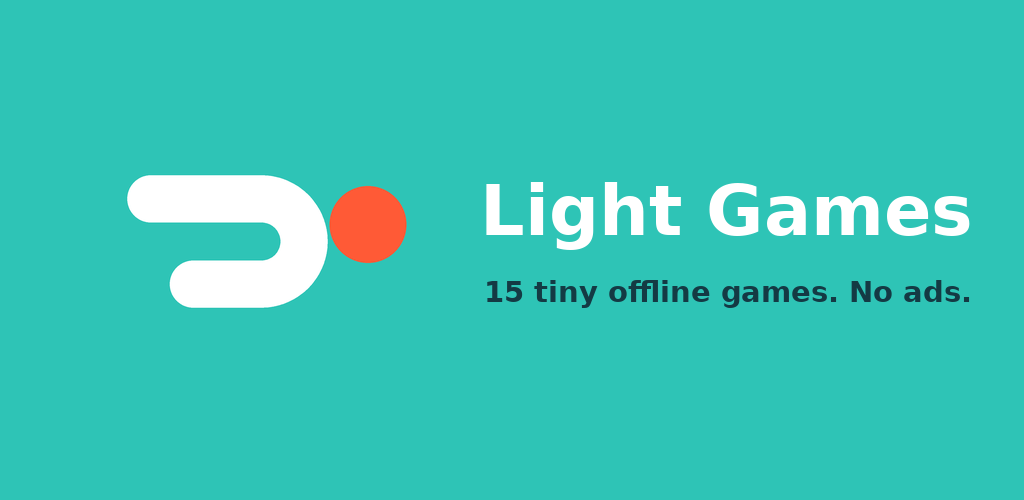
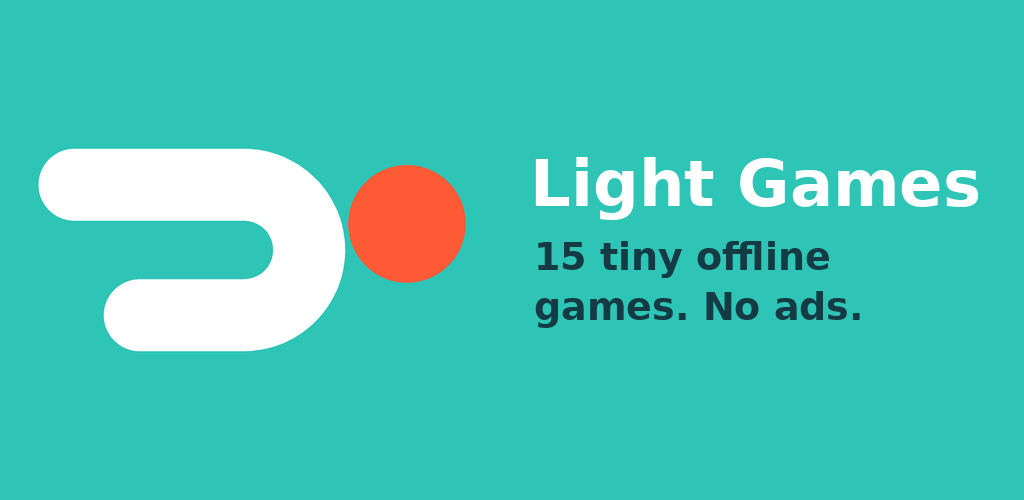
Store listing: ready-to-paste texts (EN/FR), release notes 1.0.3, larger feature graphic

Changed region(s): [[0.0312, 0.27, 0.9688, 0.72]]

diff --git a/tools/icons/gen_store_art.py b/tools/icons/gen_store_art.py
@@ -45,22 +45,48 @@ def icon(path):
     img.resize((512, 512), Image.LANCZOS).convert("RGB").save(path)
 
 
+def wrap(draw, text, font, room):
+    """Greedy word wrap of [text] to [room] px."""
+    lines, cur = [], ""
+    for word in text.split():
+        trial = (cur + " " + word).strip()
+        if draw.textlength(trial, font=font) <= room or not cur:
+            cur = trial
+        else:
+            lines.append(cur)
+            cur = word
+    lines.append(cur)
+    return lines
+
+
 def feature(path, title, tagline):
     w, h = 1024, 500
     img = Image.new("RGBA", (w * SS, h * SS), BG + (255,))
-    m = mark(460, view=108.0)
-    img.alpha_composite(m, (40 * SS, 20 * SS))
+    # The mark only fills about 61% of the launcher viewport: draw it larger so the zigzag and the
+    # dot (viewport x 20..86, y 36..68) span ~480 px, centred in the left half.
+    view_w = 66.0
+    k = 430.0 / view_w
+    side = round(108 * k)
+    m = mark(side)
+    dx = round(250 - 53.0 * k)
+    dy = round(250 - 52.0 * k)
+    img.paste(m, (dx * SS, dy * SS), m)
     img = img.resize((w, h), Image.LANCZOS).convert("RGB")
     d = ImageDraw.Draw(img)
-    big = ImageFont.truetype(FONT, 74)
-    small = ImageFont.truetype(FONT, 30)
-    left, room = 480, w - 480 - 40
+    left, right = 530, w - 36
+    room = right - left
+    big = ImageFont.truetype(FONT, 100)
     while d.textlength(title, font=big) > room:
         big = ImageFont.truetype(FONT, big.size - 2)
-    while d.textlength(tagline, font=small) > room:
-        small = ImageFont.truetype(FONT, small.size - 1)
-    d.text((left, 170), title, font=big, fill=WHITE)
-    d.text((left + 4, 275), tagline, font=small, fill=DARK)
+    small = ImageFont.truetype(FONT, 38)
+    lines = wrap(d, tagline, small, room)
+    block = big.size + 24 + len(lines) * 50
+    y = (h - block) // 2 - 10
+    d.text((left, y), title, font=big, fill=WHITE)
+    y += big.size + 24
+    for line in lines:
+        d.text((left + 4, y), line, font=small, fill=DARK)
+        y += 50
     img.save(path)
 
 

diff --git a/store/play/listing/README.md b/store/play/listing/README.md
@@ -1,0 +1,62 @@
+# Fiche Google Play : tout ce qu'il faut saisir
+
+Textes prêts à coller (un fichier par champ, limites vérifiées) :
+`en-US/` et `fr-FR/` : `title.txt` (30), `short_description.txt` (80), `full_description.txt` (4000), `release_notes.txt` (500).
+Visuels : `../icon_512.png`, `../feature_1024x500_en.png`, `../feature_1024x500_fr.png`, `../product_icon_unlock_all_512.png` (icône du produit). Les captures sont à faire sur le téléphone (voir plus bas).
+
+## Présence sur le Store > Fiche principale
+| Champ | Valeur |
+|---|---|
+| Langue par défaut | Français (France), fr-FR. Ajouter l'anglais (en-US) dans « Traductions » |
+| Nom de l'appli | `Jeux Légers` (fr-FR) / `Light Games` (en-US) |
+| Description courte, complète | `fr-FR/` et `en-US/` |
+| Icône | `../icon_512.png` (PNG 512×512) |
+| Image de présentation | `../feature_1024x500_fr.png` / `_en.png` (1024×500) |
+| Captures d'écran téléphone | 2 minimum, 8 maximum (16:9 à 9:16, 320 à 3840 px) |
+| Vidéo, tablette | facultatif, laisser vide |
+
+## Paramètres du Store (Store settings)
+| Champ | Valeur |
+|---|---|
+| Type | Jeu |
+| Catégorie | Occasionnel (Casual). Alternative : Puzzle si Occasionnel est refusé |
+| Tags (jusqu'à 5, à choisir dans la liste proposée) | Arcade, Puzzle, Casual, Board, Family. Prendre les plus proches parmi ceux proposés |
+| E-mail de contact | regis.portalez@comua.fr |
+| Site Web | https://comuafr.github.io/lightweight-games/ (ou le site de COMUA) |
+| Téléphone | obligatoire pour un compte « trader » dans l'UE (coordonnées publiées) |
+| Politique de confidentialité | https://comuafr.github.io/lightweight-games/ |
+
+## Contenu de l'application (réponses)
+| Rubrique | Réponse |
+|---|---|
+| Accès à l'application | Oui, une partie est restreinte (achat intégré). Aucun identifiant. Texte pour le relecteur, en anglais, ci-dessous |
+| Publicités | Non |
+| Classification du contenu | Catégorie Jeu. Violence, sang, sexe, langage, drogues, jeux d'argent : non. Interaction entre utilisateurs, localisation, contenu généré : non. Achats intégrés : oui. Résultat attendu : PEGI 3 / Tous publics |
+| Public cible | Tous âges, enfants inclus : lire la politique « Designed for Families » (pas de pub, aucune collecte, barrière parentale devant l'achat, achat clairement annoncé) |
+| Sécurité des données | Aucune donnée collectée, aucune partagée. Pas de chiffrement en transit à déclarer (pas de réseau) |
+| Identifiant publicitaire | Non (vérifié : pas de permission AD_ID, aucun SDK publicitaire) |
+| Statut « trader » | Oui |
+| Conditions d'utilisation (URL) | Facultatif, laisser vide |
+| Application d'actualité, santé, finance, gouvernement | Non à tout |
+
+### Texte « Any other information required for access » (en anglais)
+```
+No account or sign-in is required. Three games are free (Gobbler, Fusion, Wall Smash). The other twelve are unlocked by one in-app purchase, "Unlock every game" (product ID unlock_all).
+
+To reach the purchase screen: on the home screen, tap any locked game (padlock icon) or the "Unlock all" link. The purchase button is protected by a parental gate: press and hold it for 3 seconds, then Google Play's purchase sheet opens.
+
+The app works fully offline and contains no ads.
+```
+Nom du jeu d'identifiants : `Unlock all games (in-app purchase)`. Laisser identifiant et mot de passe vides.
+
+## Produit intégré `unlock_all`
+- Titre FR : `Débloquer tous les jeux`. Titre EN : `Unlock every game`.
+- Description FR : `Débloque les douze jeux supplémentaires, une seule fois, sans abonnement.`
+- Description EN : `Unlocks the twelve extra games, one time, no subscription.`
+- Option d'achat `unlock-all`, type Buy, active. Icône : `../product_icon_unlock_all_512.png`.
+
+## Captures d'écran à faire sur le téléphone
+Dans cet ordre, en jeu avancé quand c'est possible : catalogue, Glouton, Fusion, Casse-mur (plusieurs briques cassées), Raquettes (deux joueurs), Neuf par neuf, écran de déblocage. Fichiers à placer dans `../screenshots/fr-FR/` puis `en-US/` (changer la langue du téléphone pour les captures anglaises).
+
+## Notes de version 1.0.0
+`fr-FR/release_notes.txt` et `en-US/release_notes.txt`.

diff --git a/docs/STORE_LISTING.md b/docs/STORE_LISTING.md
@@ -9,36 +9,8 @@ Game titles are original (renamed on 2026-09-18 to stay clear of any classic-gam
 - Bundle / application id: `fr.comua.lightgames`
 - In-app product: `unlock_all`, non-consumable, "Unlock every game" / "Débloquer tous les jeux"
 
-## Short description (80 chars)
-- EN: 15 tiny offline games for kids and grown-ups. No ads, no account, no network.
-- FR : 15 mini-jeux hors ligne pour petits et grands. Sans pub, sans compte, sans réseau.
-
-## Full description
-EN:
-
-Light Games is a pocket arcade that works everywhere: in the train, in the car, on the plane, or anywhere the network is bad.
-
-- Three games for free: Gobbler, Fusion and Wall Smash (ten levels with tough and steel bricks, bonus and malus capsules, multi-ball).
-- One purchase unlocks twelve more: Color Echo, Twins, Tile Shuffle, Three in Line, Paddles, Drop Four, Chirp, Hidden Bombs, Secret Word, Flip Discs, Nine by Nine and Pixel Reveal.
-- No ads, no interstitials, no fake buttons, no subscription.
-- No account, no tracking, no data collection. The app never needs the network, except the store itself when you buy.
-- A bright arcade look, and a built-in help screen in every game.
-- Tiny download, instant launch, gentle on the battery.
-- Big touch targets and very little text, so young children can play alone. Several games are for two players on the same screen.
-- A parental gate protects the purchase button.
-
-FR :
-
-Jeux Légers est une salle d'arcade de poche qui marche partout : dans le train, en voiture, en avion, ou dès que le réseau est mauvais.
-
-- Trois jeux gratuits : Glouton, Fusion et Casse-mur (dix niveaux avec briques résistantes et blocs d'acier, capsules bonus et malus, multi-balles).
-- Un seul achat débloque douze jeux de plus : Écho de couleurs, Jumeaux, Glisse-cases, Trois alignés, Raquettes, Quatre alignés, Piou-Piou, Bombes cachées, Mot secret, Retourne-pions, Neuf par neuf et Pixel caché.
-- Aucune publicité, aucun écran d'interruption, aucun faux bouton, aucun abonnement.
-- Aucun compte, aucun suivi, aucune collecte de données. L'application n'a jamais besoin du réseau, sauf la boutique au moment de l'achat.
-- Un look arcade coloré, et un écran d'aide intégré dans chaque jeu.
-- Téléchargement minuscule, lancement instantané, douce pour la batterie.
-- Grandes zones tactiles et très peu de texte : les jeunes enfants jouent seuls. Plusieurs jeux se jouent à deux sur le même écran.
-- Une barrière parentale protège le bouton d'achat.
+## Descriptions, titles and release notes
+The ready-to-paste texts (EN and FR, character limits checked) and the full list of Play Console fields and answers are in `store/play/listing/` (start with `store/play/listing/README.md`). They are the reference: do not copy them here.
 
 ## Categories and ratings
 - Google Play: Games > Casual. Content rating questionnaire: no violence, no user interaction, no data collection. Target audience: declare "everyone" including children only after reviewing the Designed for Families policy (no ads, no data collection, IAP disclosed). The app has no INTERNET permission.
@@ -53,7 +25,3 @@ Jeux Légers est une salle d'arcade de poche qui marche partout : dans le train,
 
 ## Screenshots
 Generate with `./gradlew :preview:run` (JVM renderer, PNG per game) for drafts, then replace with real device captures for the final listing: catalog, Gobbler, Fusion, Wall Smash, one two-player game (Paddles), one puzzle (Nine by Nine), the unlock screen with the parental gate.
-
-## Release notes 1.0
-- EN: First release. 3 free games, 12 more with a single purchase. No ads, works offline.
-- FR : Première version. 3 jeux gratuits, 12 de plus avec un seul achat. Sans pub, hors ligne.
